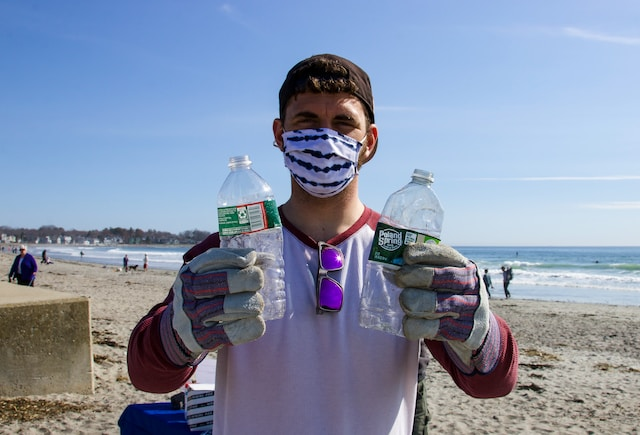
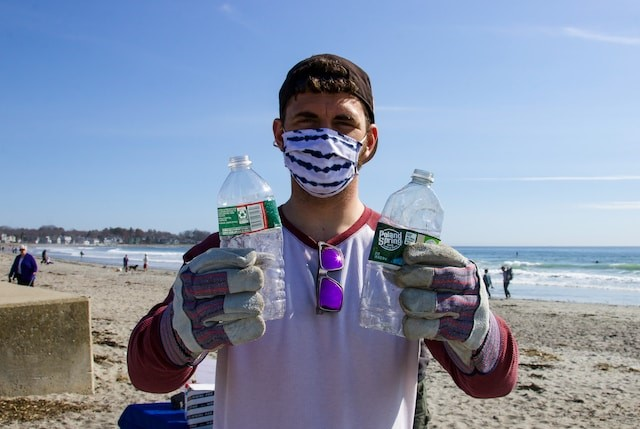
Minor update to support.html
First img cropped to same size as rest.
Target=blank added to links.

diff --git a/support.html b/support.html
@@ -60,19 +60,19 @@
                     <div class="col-md-4">
                         <img class="img-width-100 content-ext-10" src="/assets/img/beach_clean.jpg" alt="Man at a beach clean">
                         <h3>Beach Cleans</h3>
-                        <p>Find a <a href="https://www.sas.org.uk/plastic-pollution/million-mile-clean/find-a-clean-near-you/">beach clean</a>
+                        <p>Find a <a href="https://www.sas.org.uk/plastic-pollution/million-mile-clean/find-a-clean-near-you/" target="_blank">beach clean</a>
                             near you and join thousands of people from across the UK that are stepping up for the places they love.</p>
                     </div>
                     <div class="col-md-4">
                         <img class="img-width-100 content-ext-10" src="/assets/img/protest.jpg" alt="Woman holding megaphone">
                         <h3>Rallies / Marches</h3>
                         <p>Paddle Out Protests are a great way to campaign for our ocean and meet like minded people. Find your
-                            nearest one <a href="https://www.sas.org.uk/water-quality/paddle-out-protest-2023/">here.</a></p>
+                            nearest one <a href="https://www.sas.org.uk/water-quality/paddle-out-protest-2023/" target="_blank">here.</a></p>
                     </div>
                     <div class="col-md-4">
                         <img class="img-width-100 content-ext-10" src="/assets/img/petition.jpg" alt="Protesters rallying in street">
                         <h3>Petitions</h3>
-                        <p>Sign the Surfers Against Sewage: Dirty Money <a href="https://www.sas.org.uk/water-quality/dirty-money/">petition</a>
+                        <p>Sign the Surfers Against Sewage: Dirty Money <a href="https://www.sas.org.uk/water-quality/dirty-money/" target="_blank">petition</a>
                             to demand an end for water companies profiteering off polluting our waters.
                         </p>
                     </div>
